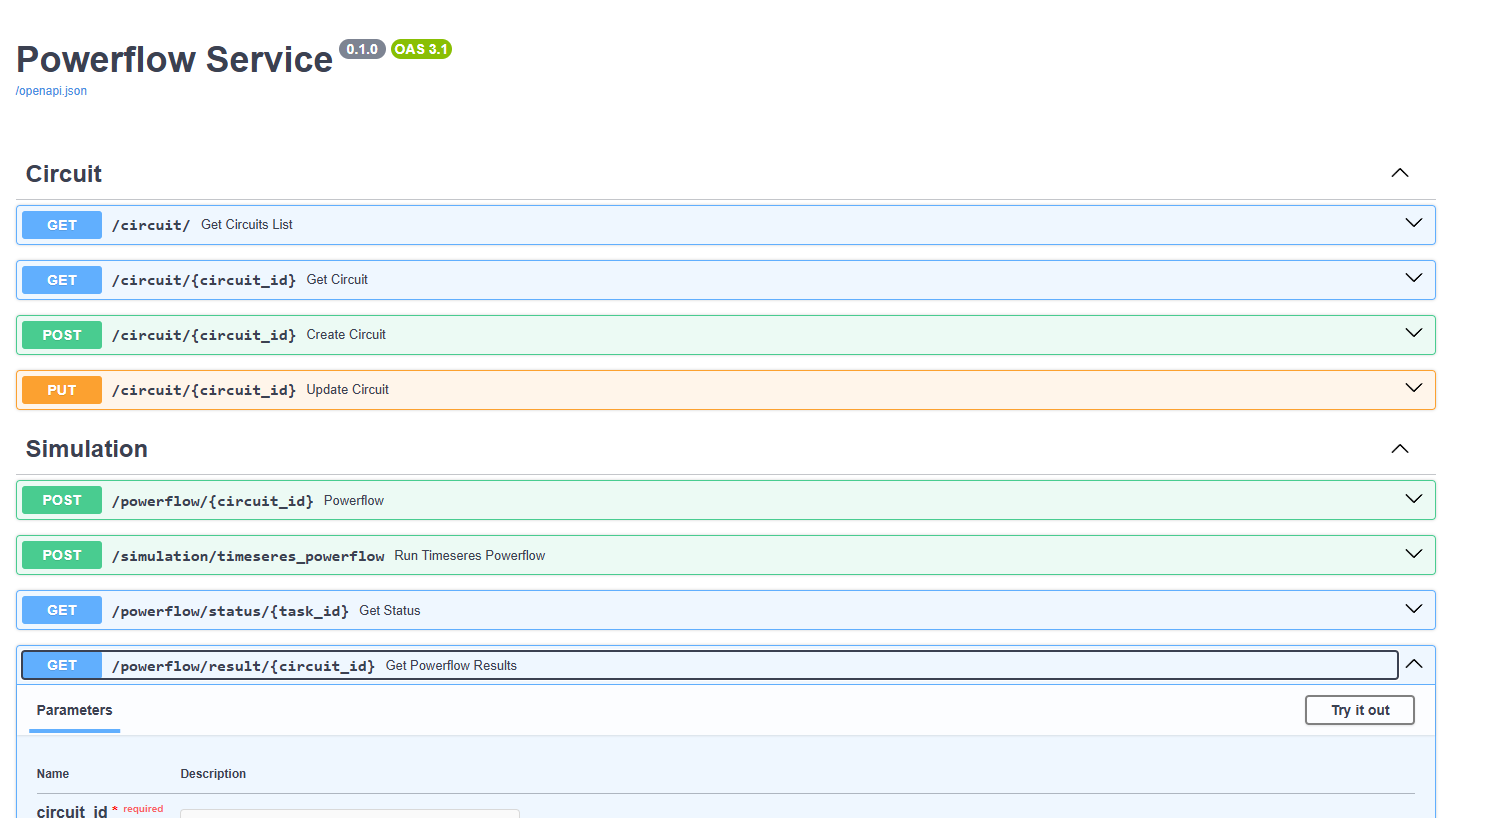
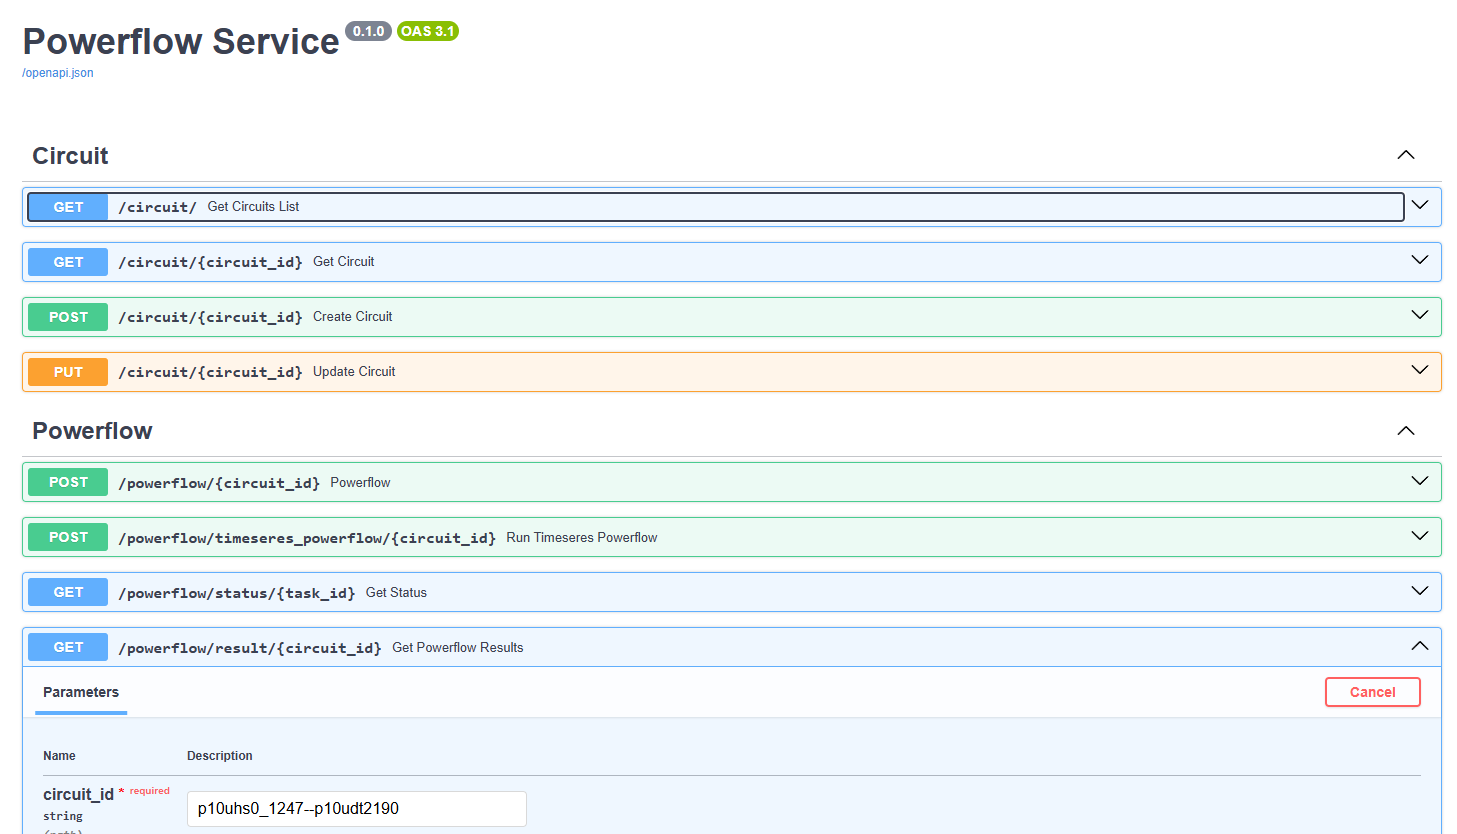
Readme
Readme

diff --git a/README.md b/README.md
@@ -4,52 +4,41 @@ API and distributed task queue for OpenDSS
 
 ## Dependencies
 
-* <a href="https://github.com/fastapi/fastapi" target="_blank"><code>fastapi</code></a> for api and docs
-* <a href="https://docs.celeryq.dev/en/stable/getting-started/first-steps-with-celery.html" target="_blank"><code>celery</code></a> distributed task queue
+* <a href="https://github.com/fastapi/fastapi" target="_blank"><code>fastapi</code></a>
+* <a href="https://github.com/celery/celery" target="_blank"><code>celery</code></a>
 
 ## Usage (running locally):
 
-Add database connection info to `app.database.settings`
-
-Start rabbitmq message broker (if the management plug-in is enabled: http://localhost:15672/):
-
- ```console
-$ rabbitmqctl start_app
-```
-
-Start a celery workers:
+Start celery workers:
  ```console
 $ python -m opendss_powerflow_service.app.workers.powerflow_worker
 $ python -m opendss_powerflow_service.app.workers.circuit_worker
 ```
 
-Celery Flower if applicable (http://localhost:5555/)
-
- ```console
-$ celery -A opendss_powerflow_service.app.core.celery_app --broker=amqp://guest:guest@localhost:5672/myvhost flower
-```
-
-FastAPI (http://127.0.0.1:8000/docs)
-python -m fastapi dev .\opendss_powerflow_service\app\main.py
+Start web server:
 
 ```console
 $ fastapi dev app\main.py
 ```
 
+Navigate to http://127.0.0.1:8000/docs/
+
 ![Alt text](images/screenshot.png)
 
 
-## Example
+## <a href="https://github.com/adinkel/opendss_powerflow_service/blob/main/examples/scripts/smartds_example.py"><code>Smart DS Example </code></a> 
+
+An example using distribution system models from <a href="https://www.nrel.gov/grid/smart-ds.html"><code>Smart DS </code></a> 
+
 
  ```python
-BASE_URL = "http://127.0.0.1:8000"
 circuit = "p10uhs0_1247--p10udt2190"
 
-response = requests.post(f'{BASE_URL}/powerflow/{circuit}', json={"outputs": ["voltage", "current"]})
+response = requests.post(f'http://127.0.0.1:8000/powerflow/{circuit}', json={"outputs": ["voltage", "current"]})
 task_id = response.json()["task_id"]
 
 while True:
-    status_response = requests.get(f'{BASE_URL}/powerflow/status/{task_id}')
+    status_response = requests.get(f'http://127.0.0.1:8000/powerflow/status/{task_id}')
     status_data = status_response.json()
     if status_data.get('status') == 'PENDING':
         time.sleep(2)
@@ -57,15 +46,15 @@ while True:
         break
 
 if status_data.get('status') == 'SUCCESS':  
-    result_response = requests.get(f'{BASE_URL}/powerflow/result/{circuit}')
+    result_response = requests.get(f'http://127.0.0.1:8000/powerflow/result/{circuit}')
     result_data = result_response.json()
 
-node_data = []
-for row in result_data['nodes']:
-    node_data.append(json.loads(row))
+    node_data = []
+    for row in result_data['nodes']:
+        node_data.append(json.loads(row))
 
-df = pd.DataFrame(node_data)
-print(df.head())
+    df = pd.DataFrame(node_data)
+    print(df.head())
 ```
 
 
